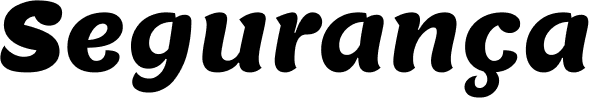
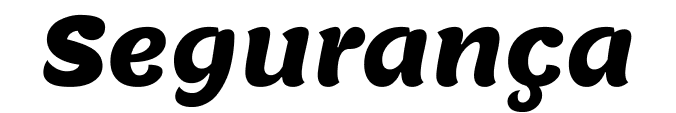
Modificacoes Funcionamento

diff --git a/src/pages/quemSomos/index.js b/src/pages/quemSomos/index.js
@@ -52,6 +52,7 @@ export default function quemSomos() {
                     <Image source={require('../../assets/profePhoto.png')}  style={styles.photoContainer} />
                 </View>
             <Text style={styles.titleText}>Professora</Text>
+            <Text style={styles.titleText2}>SIMONE CROCETTI</Text>
             <Text style={styles.text}>  Professora, engenheira, mãe e entusiasta das pequenas áreas verdes.</Text>
             </View>
             <View style={styles.card2}>
@@ -59,6 +60,7 @@ export default function quemSomos() {
                     <Image source={require('../../assets/programmerPhoto.png')}  style={styles.photoContainer} />
                 </View>
             <Text style={styles.titleText}>Programador</Text>
+            <Text style={styles.titleText2}>VICTOR PERCIO</Text>
             <Text style={styles.text}>  Técnico em informática, programador Full Stack, cursando Engenharia Mecatrônica.</Text>
             </View>
             <View style={styles.card3}>
@@ -66,6 +68,8 @@ export default function quemSomos() {
                     <Image source={require('../../assets/designerPhoto.png')}  style={styles.photoContainer} />
                 </View>
                 <Text style={styles.titleText}>Designer</Text>
+                <Text style={styles.titleText2}>JORDANA DE OLIVEIRA FURLAN</Text>
+                <Text style={styles.text}>  Me chamo Jordana, sou estudante de Design Gráfico na UTFPR e atualmente participo do projeto de extensão como UI-UX designer, uma área na qual me apaixonei profundamente. Também sou muralista e ilustradora, acredito que essas experiências externas contribuiram muito com meu apredizado dentro da equipe.</Text>
             </View>
         </View>
 

diff --git a/src/pages/acoesSociais/index.js b/src/pages/acoesSociais/index.js
@@ -1,5 +1,5 @@
 import React, { useState, useEffect, useRef } from 'react';
-import { View, ScrollView, TouchableOpacity, Text, Image, Linking, ActivityIndicator } from 'react-native';
+import { View, ScrollView, TouchableOpacity, Text, Image, Linking, ActivityIndicator, Dimensions } from 'react-native';
 import { useNavigation } from '@react-navigation/native';
 import { Carousel } from 'react-responsive-carousel';
 import 'react-responsive-carousel/lib/styles/carousel.min.css'; // Importa o CSS necessário
@@ -14,7 +14,8 @@ export default function acoesSociais() {
   const scrollViewRef = useRef(null);
   const [jardinetes, setJardinetes] = useState([]);
   const [loading, setLoading] = useState(true);
-
+  const { width, height } = Dimensions.get('window');
+  
   const openLink = (url) => {
     Linking.openURL(url).catch(err => console.error("Erro ao abrir o link:", err));
   };
@@ -144,14 +145,14 @@ export default function acoesSociais() {
     renderIndicator={(onClickHandler, isSelected, index, label) => {
       const indicatorStyle = {
         position: 'relative',
-        bottom: '20px',  // Ajusta essa propriedade para mover para cima
+        bottom: width * 0.0104166666666667,  // Ajusta essa propriedade para mover para cima
         transform: 'translateX(-50%)',
         display: 'inline-block',
         marginRight: '8px',
         cursor: 'pointer',
         borderRadius: '50%',
-        width: isSelected ? '12px' : '10px',
-        height: isSelected ? '12px' : '10px',
+        width: isSelected ? width * 0.00625 : width * 0.0052083333333333,
+        height: isSelected ? width * 0.00625 : width * 0.0052083333333333,
         backgroundColor: isSelected ? '#fff' : '#ccc',
       };
 

diff --git a/src/pages/quemSomos/styles.js b/src/pages/quemSomos/styles.js
@@ -62,8 +62,8 @@ export const styles = StyleSheet.create({
         alignItems: 'center',
         backgroundColor: '#271C00',
         flexDirection: 'column',
-        width: width * 0.15625,
-        height: width * 0.2864583333333333,
+        width: width * 0.22,
+        height: width * 0.3,
         marginLeft: width * 0.0260416666666667,
         marginRight: width * 0.0260416666666667,
         marginTop: width * 0.0260416666666667,
@@ -74,8 +74,8 @@ export const styles = StyleSheet.create({
         alignItems: 'center',
         backgroundColor: '#271C00',
         flexDirection: 'column',
-        width: width * 0.15625,
-        height: width * 0.2864583333333333,
+        width: width * 0.22,
+        height: width * 0.3,
         marginLeft: width * 0.0260416666666667,
         marginRight: width * 0.0260416666666667,
         marginTop: width * 0.0260416666666667,
@@ -86,8 +86,8 @@ export const styles = StyleSheet.create({
         alignItems: 'center',
         backgroundColor: '#271C00',
         flexDirection: 'column',
-        width: width * 0.15625,
-        height: width * 0.2864583333333333,
+        width: width * 0.22,
+        height: width * 0.3,
         marginLeft: width * 0.0260416666666667,
         marginRight: width * 0.0260416666666667,
         marginTop: width * 0.0260416666666667,
@@ -211,6 +211,12 @@ export const styles = StyleSheet.create({
 
       titleText: {
         fontSize: width * 0.0145833333333333,
+        color: 'white',
+        marginTop: width * 0.0104166666666667,
+      },
+
+      titleText2: {
+        fontSize: width * 0.0072916666666667,
         color: 'white',
         marginTop: width * 0.0104166666666667,
       },

diff --git a/src/pages/Form/styles.js b/src/pages/Form/styles.js
@@ -13,8 +13,8 @@ export const styles = StyleSheet.create({
   },
 
   vamos:{
-    width: (630 / 1920) * width,
-    height: (69 / 1920) * width,
+    width: (699 / 1920) * width,
+    height: (77 / 1920) * width,
     top: (350 / 1920) * width,
     position: 'absolute',
   },
@@ -66,6 +66,7 @@ export const styles = StyleSheet.create({
     marginBottom: (20 / 1920) * width,
     backgroundColor: '#166034',
     color: 'white',
+    fontSize: (20 / 1920) * width,
   },
   bola:{
     zIndex: -1,
@@ -111,6 +112,7 @@ export const styles = StyleSheet.create({
     marginBottom: (20 / 1920) * width,
     backgroundColor: '#4C6523', 
     color: 'white',
+    fontSize: (20 / 1920) * width,
   },
   button: {
     backgroundColor: '#6f8a3b', // verde do botão

diff --git a/src/pages/AnaliseFinal/styles.js b/src/pages/AnaliseFinal/styles.js
@@ -76,7 +76,7 @@ export const styles = StyleSheet.create({
 
 
     analise: {
-        width: width * 0.296875,
+        width: width * 0.3505208333333333,
         height: width * 0.0416666666666667,
         top: width * 0.1822916666666667,
     },
@@ -399,7 +399,7 @@ export const styles = StyleSheet.create({
     },
 
     pertText: {
-        width: (width * 0.1416666666666667) * 1.15,
+        width: (width * 0.153125) * 1.15,
         height: (width * 0.0145833333333333) * 1.15,
     },
 
@@ -664,7 +664,7 @@ export const styles = StyleSheet.create({
       },
 
       textPerc:{
-        fontSize: 18,
+        fontSize: width * 0.009375,
         color: 'white',
         fontWeight: 'bold',
       },

diff --git a/src/pages/acoesSociais/styles.js b/src/pages/acoesSociais/styles.js
@@ -87,8 +87,8 @@ export const styles = StyleSheet.create({
       },
 
       parceirosTitle: {
-        width: width * 0.2859375,
-        height: width * 0.021875,
+        width: width * 0.3052083333333333,
+        height: width * 0.025,
       },
 
       retOrange: {
@@ -228,7 +228,7 @@ export const styles = StyleSheet.create({
       // Estilo para o texto do nome do jardinete
       carouselText: {
         position: 'absolute',
-        bottom: '10px',
+        bottom: '20px',
         width: '100%',
         background: 'rgba(255, 255, 255, 0.8)',
         color: 'black',

diff --git a/src/pages/Impact/styles.js b/src/pages/Impact/styles.js
@@ -111,10 +111,10 @@ export const styles = StyleSheet.create({
     },
 
     seguranca: {
-        marginTop: width * 0.05,
-        width: width * 0.3067708333333333,
-        height: width * 0.0510416666666667,
-    },
+      marginTop: width * 0.05,
+      width: width * 0.3520833333333333,
+      height: width * 0.0588541666666667,
+  },
 
     card1:{
         width: width * 0.6078125,
@@ -281,7 +281,7 @@ quatro: {
 },
 
     textNumber:{
-      fontSize: 64,
+      fontSize: width * 0.0333333333333333,
       color: "white",
     },
 

diff --git a/src/pages/ImpactSolo/styles.js b/src/pages/ImpactSolo/styles.js
@@ -110,8 +110,8 @@ export const styles = StyleSheet.create({
 
     seguranca: {
         marginTop: width * 0.05,
-        width: width * 0.3067708333333333,
-        height: width * 0.0510416666666667,
+        width: width * 0.3520833333333333,
+        height: width * 0.0588541666666667,
     },
 
     card1:{
@@ -278,7 +278,7 @@ quatro: {
 },
 
     textNumber:{
-      fontSize: 64,
+      fontSize: width * 0.0333333333333333,
       color: "white",
     },
 

diff --git a/src/pages/Seguranca/styles.js b/src/pages/Seguranca/styles.js
@@ -50,12 +50,12 @@ export const styles = StyleSheet.create({
     },
 
     title: {
-        width: width * 0.2395833333333333,
-        height: width * 0.0401041666666667,
+        width: width * 0.3489583333333333,
+        height: width * 0.0651041666666667,
     },
 
     bemTitle: {
-        top: width * 0.1041666666666667,
+        top: width * 0.0965,
         position: 'absolute',
     },
 

diff --git a/src/pages/Pertencimento/styles.js b/src/pages/Pertencimento/styles.js
@@ -50,8 +50,8 @@ export const styles = StyleSheet.create({
     },
 
     title: {
-        width: width * 0.3307291666666667,
-        height: width * 0.0338541666666667,
+        width: width * 0.4723958333333333,
+        height: width * 0.0458333333333333,
     },
 
     bemTitle: {
